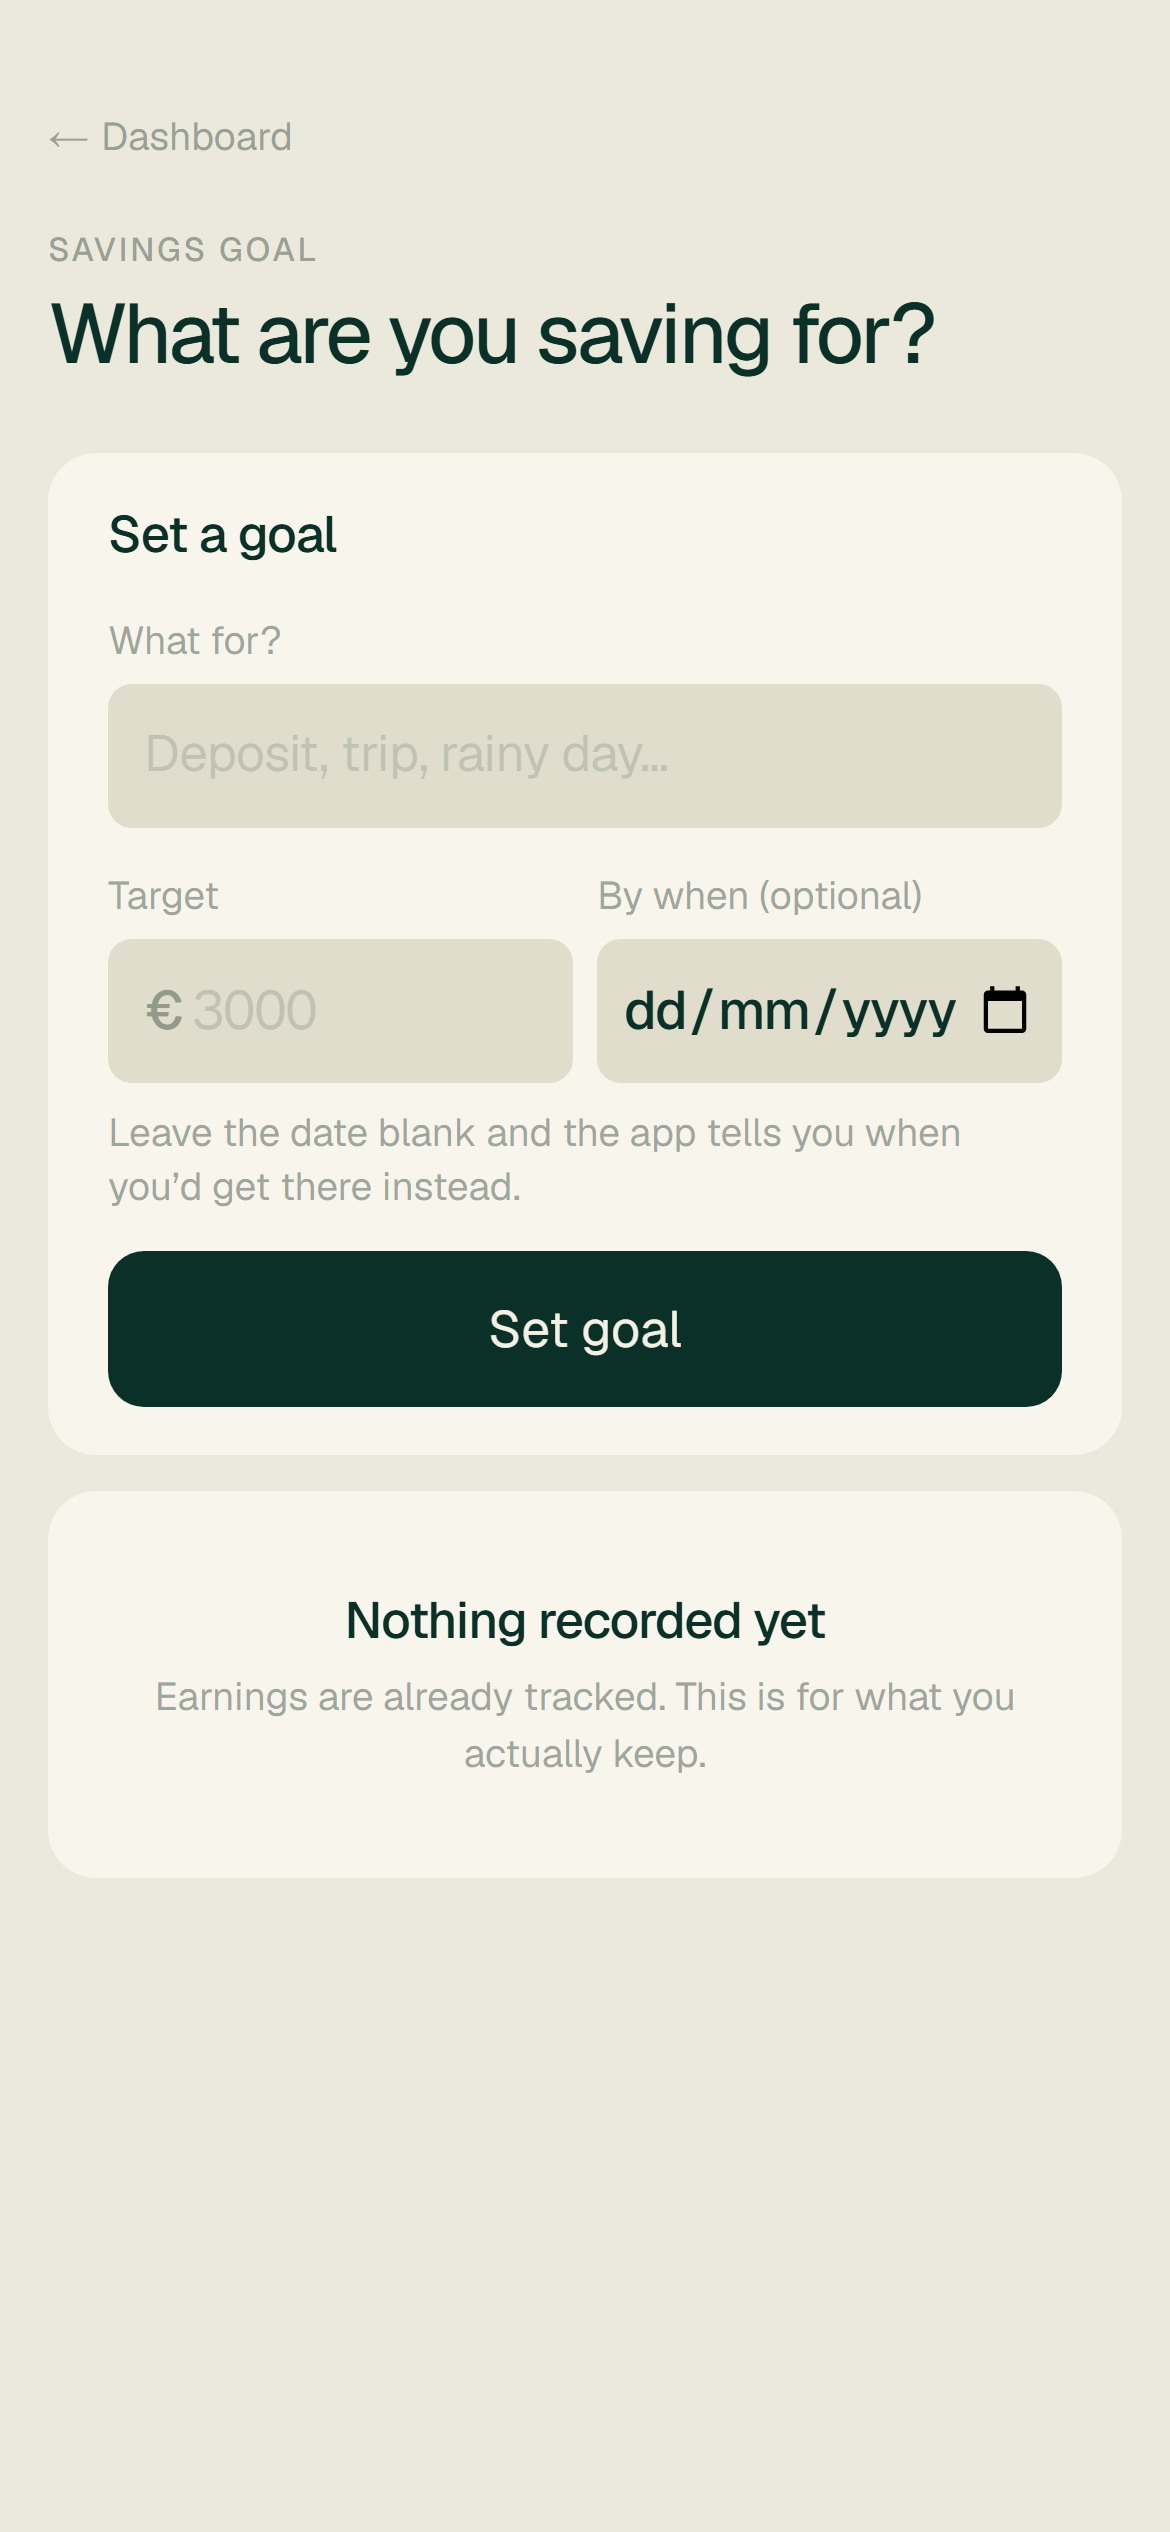
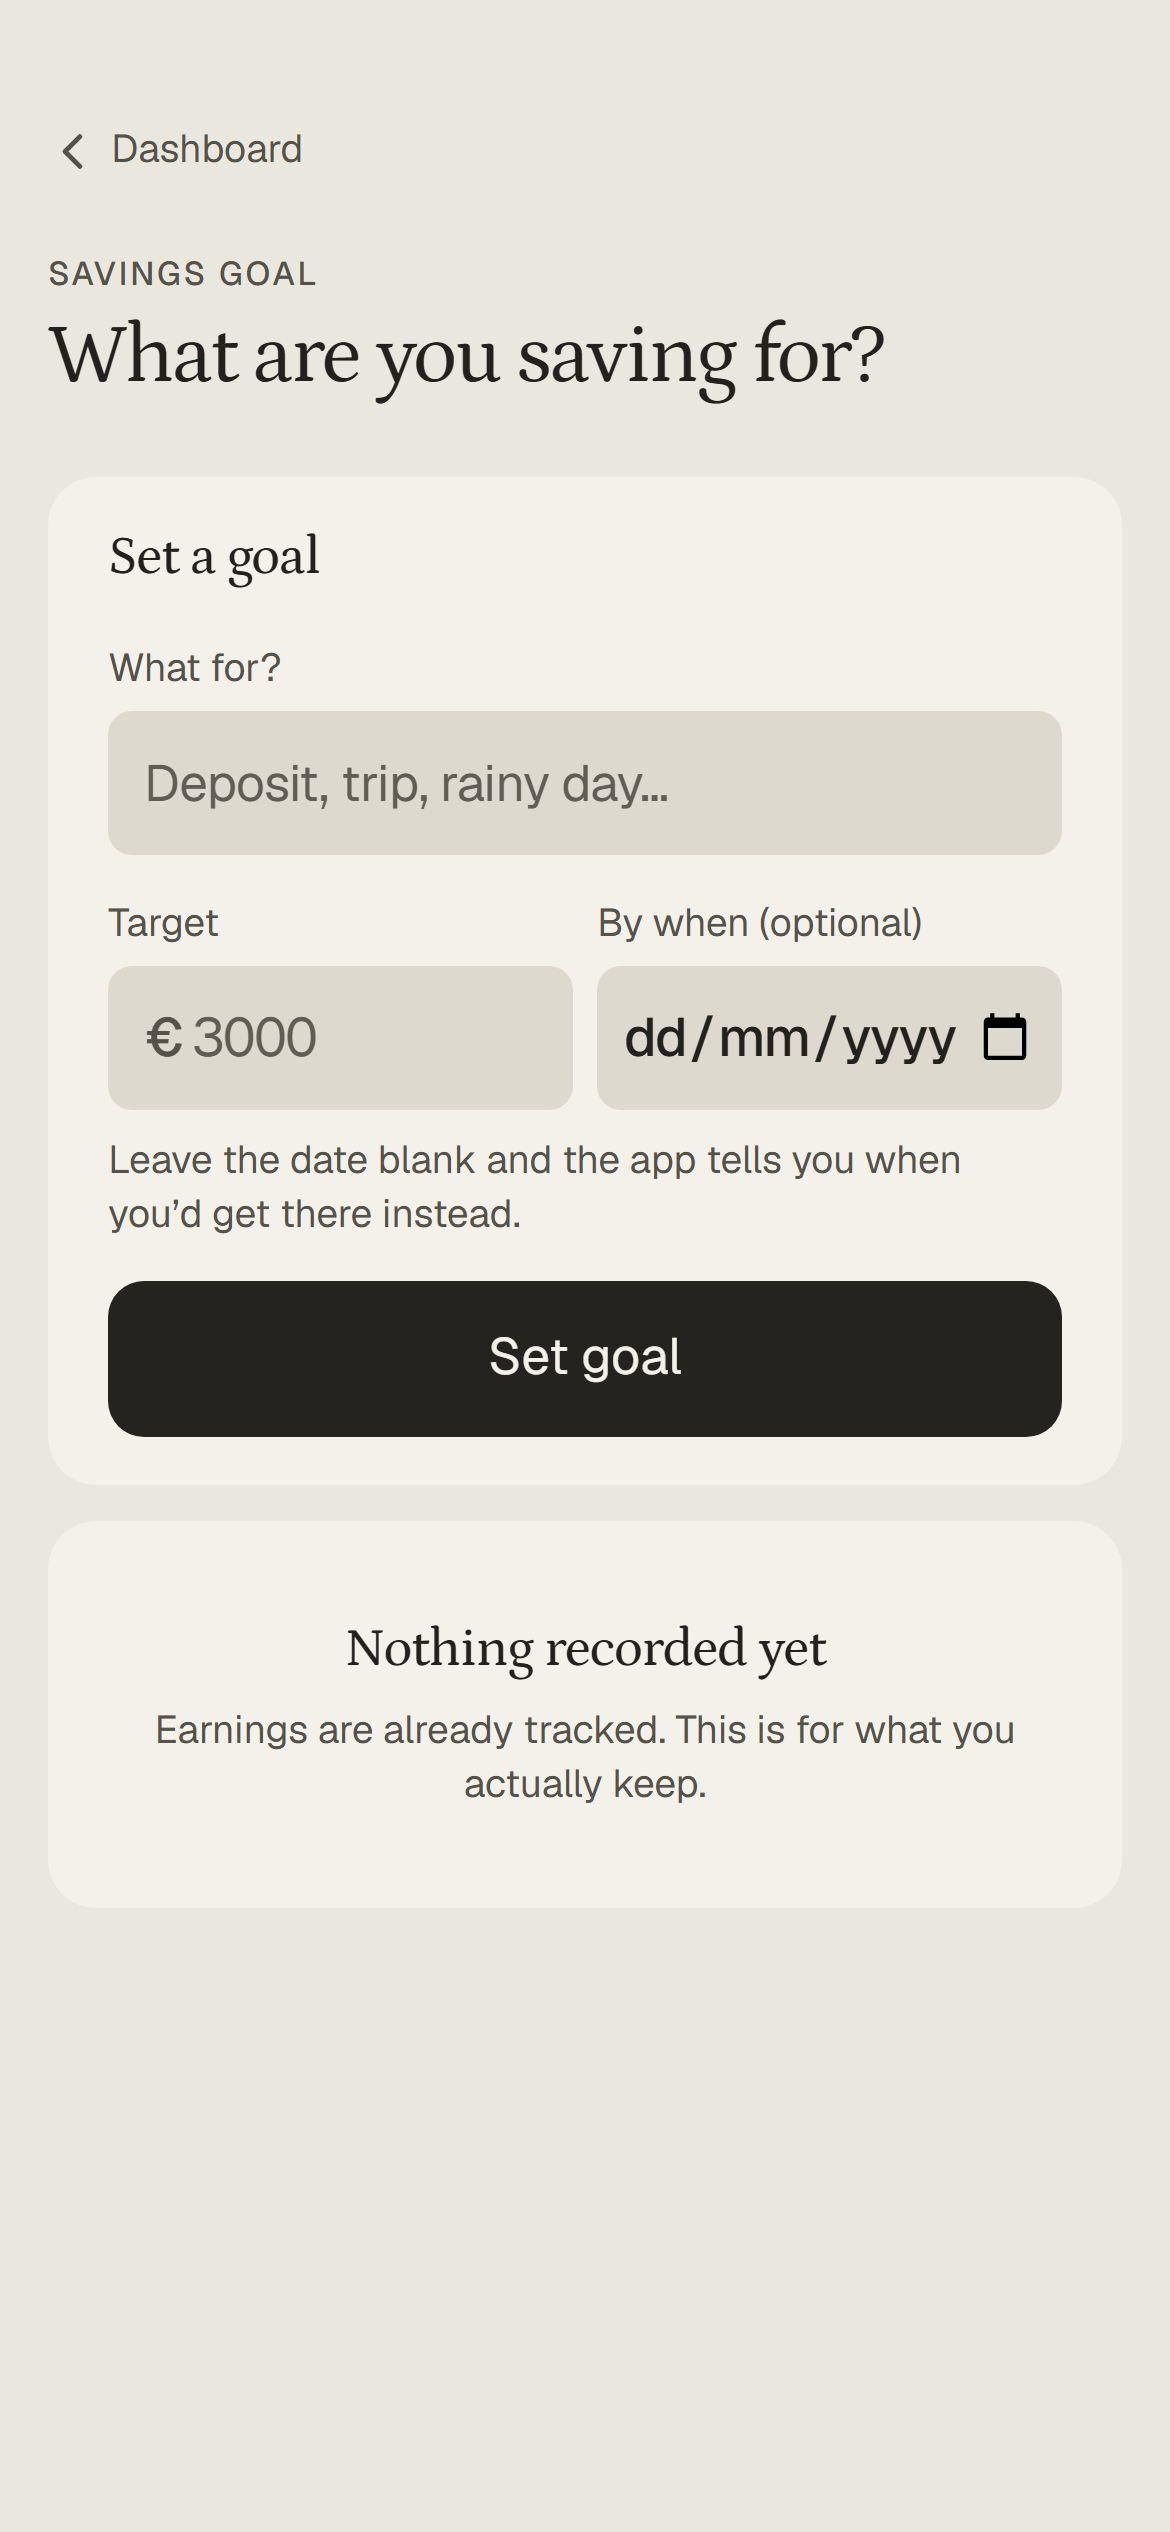
Write down the audit, and refresh the screenshots it describes
Three briefs in a row pointed at docs/DESIGN-AUDIT.md and it did not exist.
One of them sent a session at Part 4 of a build prompt that had been done
weeks earlier, because the only record of what was already fixed was a chat
transcript nobody could grep.

So it exists now, with every finding marked resolved and the commit that
resolved it named. A list of fixed problems is the cheapest way to stop the
next session re-solving them, and it costs nothing to keep.

It also records the things the original audit missed and measurement
found: --surface-chrome referenced but never defined, the calendar's
illegible band that no threshold could have fixed, four sets of tap targets
under 44px, and a date strip whose comment claimed a scroll the code did
not do.

docs/design/*.png were three design generations stale — forest green, the
old card stack, the month grid. They now show what actually ships, across
ten screens in both worlds rather than five, including the empty state.

diff --git a/docs/DESIGN-AUDIT.md b/docs/DESIGN-AUDIT.md
@@ -1,0 +1,150 @@
+# Design audit
+
+Recorded 2026-09-22. **Every finding below is resolved.** It is kept because
+three later briefs pointed at this file expecting it to exist, and because a
+list of fixed problems is the cheapest way to stop the next session
+re-solving them.
+
+Status is marked per finding. If you are handed a brief that treats any of
+these as open, check the commit named beside it before starting.
+
+---
+
+## The verdict
+
+The dashboard read as machine-generated. Not because of the palette — because
+of the structure.
+
+### 1. Card soup — **fixed, `3c5dfef`**
+
+Eight stacked rounded rectangles of near-identical visual weight: hero, pay
+period, calendar, a 2-up of stat tiles, two charts, the goal. Nothing was
+subordinate to anything else, so the eye got no path through the screen.
+
+Uniform cards at uniform spacing is dashboard vocabulary, and CLAUDE.md
+explicitly rejects it — *"Shadows are what make a layout read as a
+dashboard."* The rule was followed literally (no shadows anywhere) and missed
+in spirit (everything was still a card).
+
+Now 2 containers, and after `cdfd9fa` the primary one is a hairline region
+rather than a fill.
+
+### 2. The strongest move spent on nothing — **fixed, `3c5dfef`, `cdfd9fa`**
+
+The inverted bone card was the highest-contrast element in the system and it
+was displaying €0.00. The month calendar — 340px of empty grid — carried the
+same weight.
+
+The figure and the days merged into one unit, then the fill became a
+hairline and the grid became a strip.
+
+### 3. The time scale jumped — **fixed, `3c5dfef`**
+
+"THIS MONTH" → "This month is worth" → "September 2026" → PAY PERIOD 21–27
+Sept (a week) → a month calendar → "SEPTEMBER 2026" → "EARNED €0.00".
+
+Month, week, month, month. The same figure appeared **four times under three
+different labels**. It now appears once; the pay period is a nav row carrying
+dates and no figure.
+
+### 4. Two arrow vocabularies — **fixed, `3c5dfef`, `942f556`**
+
+A bare `→` floated at the right edge with no affordance, directly below a
+month nav using `‹ ›`. Neither read as tappable.
+
+One authored `<Chevron>` SVG now, at one stroke weight. Unicode glyphs
+standing in for an icon system was the root cause — three faces that happen
+to live in the same font will never agree. There are no `&rarr;`, `&larr;`,
+`&lsaquo;` or `&rsaquo;` left in `app/`.
+
+### 5. A legend for absent data — **fixed, `3c5dfef`**
+
+`LESS ○○○○ MORE` and the `ESTIMATED` chip annotated an empty grid. Each half
+now renders only when it has something to explain.
+
+### 6. The empty state was the first-run state — **fixed, `3c5dfef`**
+
+The screen a new user lands on displayed four zeroes and no clear next
+action. It now says "Nothing logged", keeps the calendar as the input
+surface, hides the legend, and carries a primary action that is never absent.
+
+---
+
+## The measured facts
+
+Contrast against the real surfaces, alpha composited, as found:
+
+```
+--fg-secondary #5263568c on bone #ebe9dc    2.23  fails AA
+--fg-tertiary  #0b302847 on bone            1.72  fails AA
+--attention    #8a6d2f   on bone            4.00  large text only
+--fg-tertiary  #b9c9b866 on forest #071f1a  2.67  fails AA
+```
+
+93 uses of `fg-secondary`/`fg-tertiary` in `app/`, nearly all on `t-caption`
+and `t-label` — small text, not borders. The calendar date numerals were the
+visible symptom.
+
+> Two worlds were designed; one was audited.
+
+**Fixed in `3c5dfef`: 37/58 → 56/56.** The cause was alpha throughout — the
+same hues opaque already passed. `scripts/contrast.mjs` measures every text
+token against its real composited surface in both worlds and exits non-zero
+on failure. Run it after any token change.
+
+The asymmetry was real but smaller than it looked: the forest world had not
+been audited either, it had simply started from a higher floor.
+
+---
+
+## Found by measuring, not in the original audit
+
+- **`--surface-chrome` and `.u-chrome` were undefined.** `TabBar.tsx`
+  referenced both; neither existed. The fixed bottom bar had no background at
+  all, only `backdrop-filter`. Fixed in `3c5dfef`.
+
+- **The calendar had an illegible band.** Across the fill ramp there is a
+  middle range where neither ink clears 4.5:1 — measured at (0.35, 0.52) in
+  the bone world and (0.48, 0.66) in the forest world. The existing
+  `intensity > 0.55` flip could not have worked at any threshold, because the
+  bands are where *both* inks fail. The ramp now starts above the wider of the
+  two and one ink serves the whole scale. Fixed in `3c5dfef`.
+
+- **Tap targets.** Range tabs 36px, calendar cells 42px, period steppers
+  32px, AI suggestion chips and two rate links 36px. All 44 now, across all
+  twelve screens.
+
+- **The date strip did not scroll to today.** Introduced and fixed in
+  `cdfd9fa`: a comment claimed behaviour the code did not have.
+
+---
+
+## What replaced the palette
+
+The deep forest green was retired on 2026-09-22 for the **Discovery Series**
+— Ordnance Survey Ireland 1:50,000. Three directions were built and rendered
+on the real dashboard before one was chosen; the other two were a greenbar
+wage docket and a seven-segment instrument keeping a near-black world.
+
+The structural half of that decision matters more than the colour: on a map
+sheet nothing is a filled block, rank comes from ink weight and from space,
+and that is what removed the last dark slab from five screens.
+
+---
+
+## Verification, standing
+
+Everything here is re-runnable. None of it is a matter of opinion.
+
+```
+node scripts/contrast.mjs              # every token, both worlds, exits non-zero on failure
+node scripts/shoot-v3.mjs light        # 390x844, empty and populated
+node scripts/shoot-v3.mjs dark
+npm test                               # domain, budget, tool translation, RLS
+grep -rn "shadow" app                  # should find only comments
+```
+
+`npm run test:rls` mints two anonymous users per run and Supabase rate-limits
+anonymous sign-in hourly, so it cannot be run repeatedly in quick succession.
+A failure reading `Request rate limit reached` is that, not a policy
+regression.
